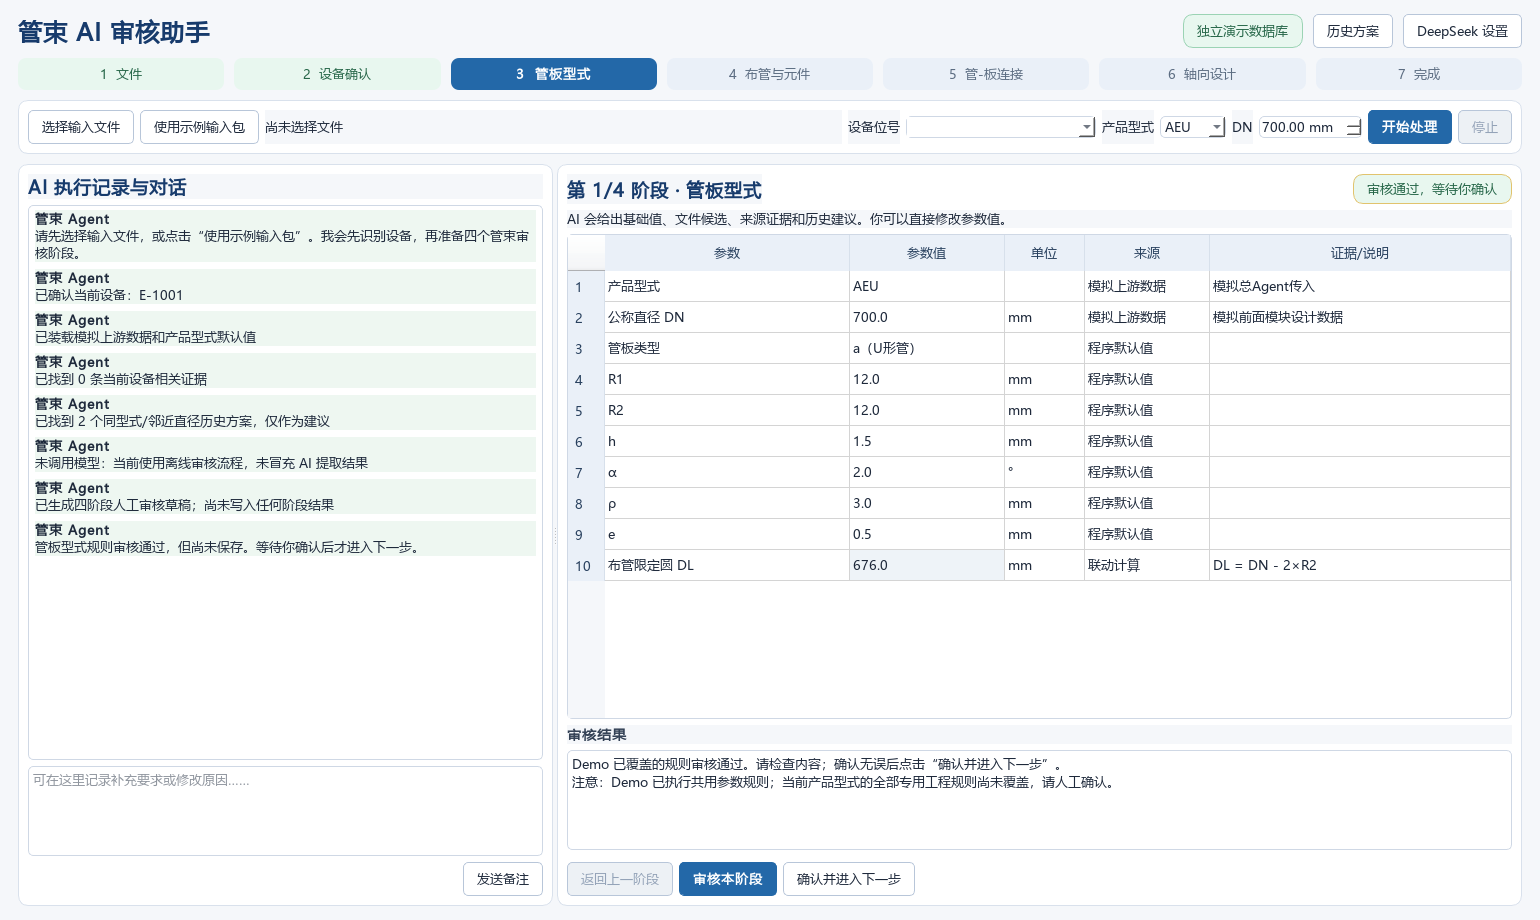
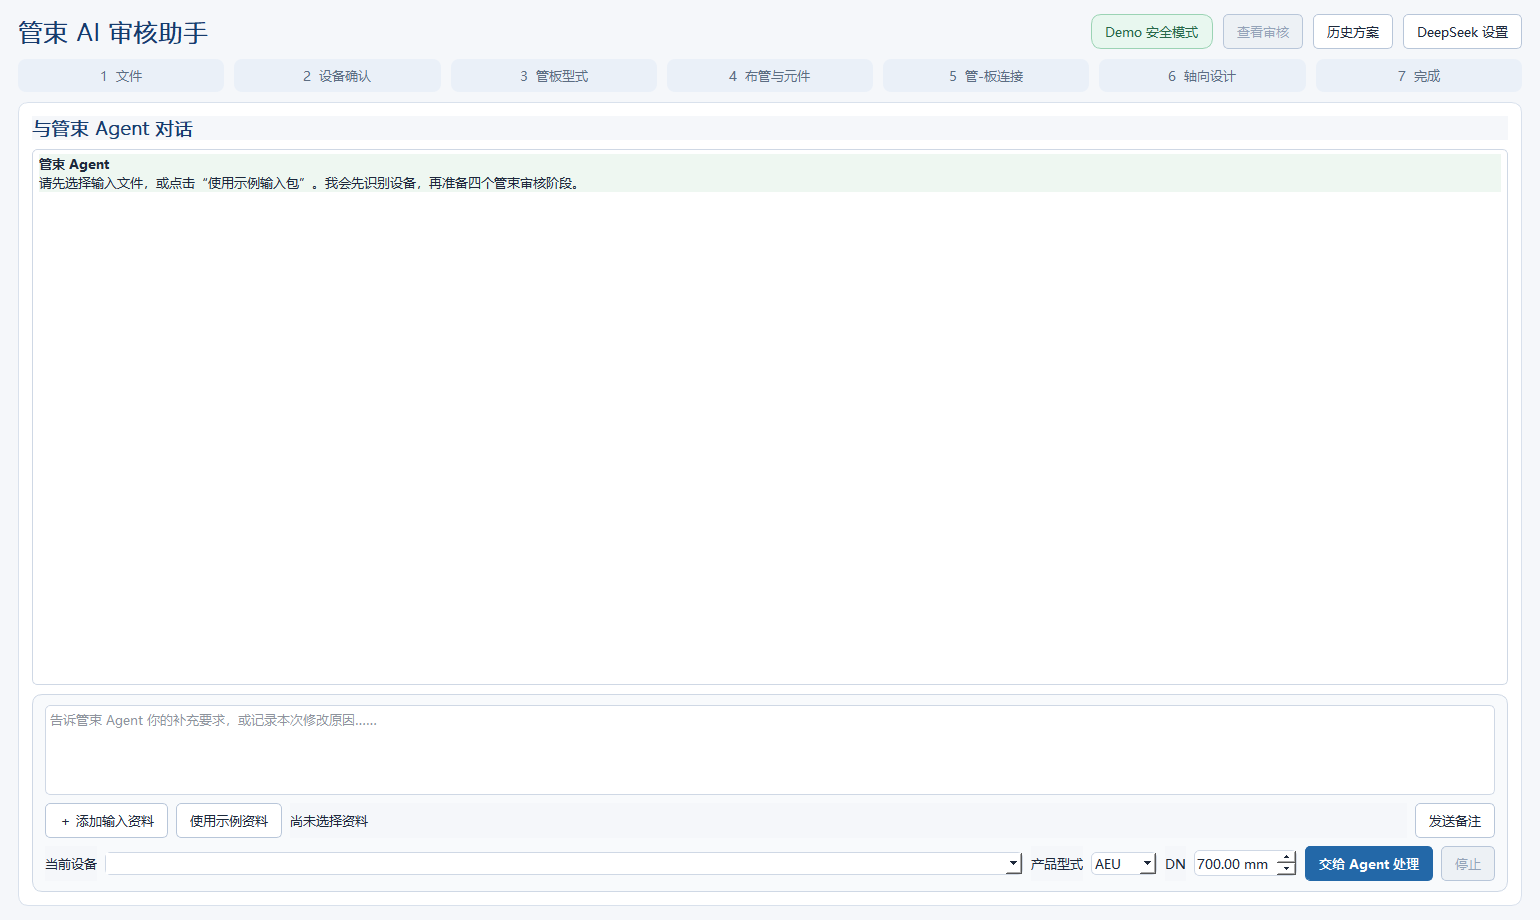
docs: update chat-first demo delivery

diff --git a/docs/superpowers/plans/2026-10-28-chat-first-demo-and-formal-pipeline.md b/docs/superpowers/plans/2026-10-28-chat-first-demo-and-formal-pipeline.md
@@ -1,0 +1,132 @@
+# Chat-first Demo 与正式 Pipeline 修订 Implementation Plan
+
+> **For agentic workers:** REQUIRED SUB-SKILL: Use superpowers:subagent-driven-development (recommended) or superpowers:executing-plans to implement this plan task-by-task. Steps use checkbox (`- [ ]`) syntax for tracking.
+
+**Goal:** 把 Demo 改成默认只显示对话、仅在需要审核时展开审核抽屉的交互，并把 draw.io 图改成正式软件的管束 Agent 工作流。
+
+**Architecture:** 保留现有 `ReviewSession`、规则校验、DeepSeek 接入和 SQLite Demo 数据层，只重排 PyQt 主窗口的呈现状态。审核表格仍是同一实例，由窗口统一控制展开、收起和重开；正式 Pipeline 图独立描述生产软件的数据流转、数据库读取、人工审核和最终入库，不展示 Demo 的上传与 SQLite 实现细节。
+
+**Tech Stack:** Python 3、PyQt5、unittest、draw.io XML
+
+**Spec:** `docs/2026-10-28-管束AI单窗口审核Demo设计.md`
+
+## Global Constraints
+
+- 不修改 `E:/Homework/AALB/ACode/DongLanpec` 生产交付仓库。
+- 保留用户在 draw.io 中已改的标题“管束 AI Agent”和已删除的副标题。
+- Demo 仍可选文件或示例包，但这些不得出现在正式软件 Pipeline 中。
+- 参数修改、采用推荐值后必须重新审核；审核通过后仍需用户确认。
+- API Key 不写入代码、文档、测试或截图。
+
+## Review Focus
+
+- 窗口刚启动时审核区不能占用对话空间。
+- Agent 准备好结构化数据后，审核区必须自动出现并能被用户收起。
+- 收起审核区后必须有明显且可用的“查看审核”入口。
+- 审核失败、采用推荐值和切换阶段不得丢失原有红色标记、重审和确认闸门。
+- 正式 Pipeline 不得出现“上传文档”、“模拟上游”、“独立演示库”或“SQLite”。
+
+---
+
+### Task 1: Chat-first 审核抽屉状态
+
+**Files:**
+- Modify: `tests/test_window.py`
+- Modify: `window.py`
+
+**Interfaces:**
+- Consumes: 现有 `DesignWindow._accept_prepared()` 和 `DesignWindow.render_stage()`
+- Produces: `DesignWindow.set_review_drawer_visible(visible: bool) -> None`
+
+- [ ] **Step 1: Write the failing GUI tests**
+
+添加三个行为测试：新窗口默认隐藏审核区；准备好数据后自动展开；收起后可用顶部入口重新展开。
+
+- [ ] **Step 2: Run tests and verify RED**
+
+Run: `python -m unittest tests.test_window -v`
+
+Expected: FAIL because the review panel is permanently present and there is no drawer visibility API.
+
+- [ ] **Step 3: Implement the minimal drawer behavior**
+
+保留 `QSplitter`，将审核面板保存为 `self.review_panel`，添加收起按钮和可重开的 `self.review_toggle_button`，并在 `_accept_prepared()` 中展开。
+
+- [ ] **Step 4: Run tests and verify GREEN**
+
+Run: `python -m unittest tests.test_window -v`
+
+Expected: all window tests PASS.
+
+### Task 2: 对话优先的操作布局
+
+**Files:**
+- Modify: `window.py`
+- Modify: `docs/2026-10-28-管束AI单窗口审核Demo设计.md`
+- Modify: `docs/操作手册.md`
+
+**Interfaces:**
+- Consumes: Task 1 的审核抽屉控制
+- Produces: 默认单对话面的主窗口和收敛到输入区的 Demo 操作入口
+
+- [ ] **Step 1: Rework the layout without changing domain behavior**
+
+将对话区作为默认主视图，文件/示例、设备与开始处理控件收敛到对话输入区；保留 DeepSeek 设置、历史方案和处理状态。
+
+- [ ] **Step 2: Update user-facing documentation**
+
+明确“Demo 上传是演示入口，正式软件从数据流转/数据库接收”，并说明如何展开、收起和重新打开审核抽屉。
+
+- [ ] **Step 3: Run the GUI regression suite**
+
+Run: `python -m unittest tests.test_window tests.test_review_session tests.test_review_findings -v`
+
+Expected: all tests PASS.
+
+### Task 3: 正式软件 Pipeline draw.io
+
+**Files:**
+- Modify: `docs/管束AI审核流-Pipeline.drawio`
+- Regenerate: `docs/管束AI审核流-Pipeline预览.svg`
+
+**Interfaces:**
+- Consumes: 用户修改后的三页 draw.io 文件
+- Produces: 正式管束模块的总体 Pipeline、四阶段数据流和状态流转图
+
+- [ ] **Step 1: Revise the first page in place**
+
+改为“数据流转/数据库接收 → 基础上下文组装 → Agent 识别与建议 → 联动校验 → 人工审核迭代 → 存入数据库”。
+
+- [ ] **Step 2: Revise the data-flow and state pages in place**
+
+数据源改为总 Agent/数据空间流转、前置模块数据库、程序默认和历史产品；状态改为等待数据、装载、Agent 处理、待人工审核、待确认、入库和完成。
+
+- [ ] **Step 3: Export and inspect the SVG**
+
+用 draw.io 桌面端导出预览，确认三页文字不截断、连线无遮挡，且不存在 Demo 术语。
+
+### Task 4: 全量验证与交付检查
+
+**Files:**
+- Modify if needed: `README.md`
+- Modify if needed: `docs/界面预览.png`
+- Modify if needed: `docs/界面预览-审核不通过.png`
+
+**Interfaces:**
+- Consumes: Tasks 1–3
+- Produces: 可演示、可说明、可继续编辑的最终交付
+
+- [ ] **Step 1: Run the complete automated suite**
+
+Run: `python -m unittest discover -s tests -v`
+
+Expected: all tests PASS with no traceback.
+
+- [ ] **Step 2: Run a launcher smoke test**
+
+通过启动脚本打开 Demo，检查默认对话面、审核抽屉和收起/重开路径。
+
+- [ ] **Step 3: Check repository boundaries**
+
+确认只有 Demo 目录变更，`E:/Homework/AALB/ACode/DongLanpec` 没有新增 AI 代码或未预期修改。
+

diff --git a/README.md b/README.md
@@ -1,6 +1,6 @@
 # 管束 AI 审核助手 Demo
 
-这是与 `DongLanpec` 交付工程完全分开的演示程序，用来验证：
+这是与 `DongLanpec` 交付工程完全分开的演示程序。界面默认只显示一个类似 Codex 的对话窗口，Agent 需要人工审核时才展开右侧参数抽屉。Demo 用来验证：
 
 `输入文件 → 设备确认 → 管束 Agent 提取/建议 → 四阶段人工审核 → 独立 SQLite 保存`
 
@@ -12,15 +12,17 @@
 
 第一次建议这样试：
 
-1. 点击“使用示例输入包”；
+1. 在对话输入区下方点击“使用示例资料”；
 2. 选择一个设备位号，确认产品型式和 DN；
-3. 点击“开始处理”；
-4. 修改右侧任意参数，点击“审核本阶段”；
+3. 点击“交给 Agent 处理”；
+4. 待审核抽屉自动展开后，修改任意参数并点击“审核本阶段”；
 5. 审核失败时查看红色单元格、原因和推荐值；
 6. 可以点击“一键采用推荐值”，但采用后必须再次审核；
 7. 全部通过后点击“确认并进入下一步”，这时才保存本阶段。
 
-文件扫描和 DeepSeek 调用在后台执行，界面不会被网络等待锁死；可点击“停止”。已确认阶段可以返回修改，程序会自动撤销依赖它的后续审核。右上角“历史方案”可只读查看旧版本，并复制成一个新版本继续审核。
+资料扫描和 DeepSeek 调用在后台执行，界面不会被网络等待锁死；可点击“停止”。审核抽屉可随时收起，再用顶部“查看审核”打开。已确认阶段可以返回修改，程序会自动撤销依赖它的后续审核。右上角“历史方案”可只读查看旧版本，并复制成一个新版本继续审核。
+
+Demo 里的资料选择只是为了给老师独立演示。正式软件的管束模块不重复上传文件，而是从总 Agent/数据空间接收流转数据，并从数据库读取前置模块参数。仓库中的 Pipeline 图描述的是这个正式流程，不是 Demo 内部实现。
 
 完整说明见 [设计人员操作手册](docs/操作手册.md)。人工测试值见 [审核闭环测试示例](完整设计测试示例.txt)。
 
